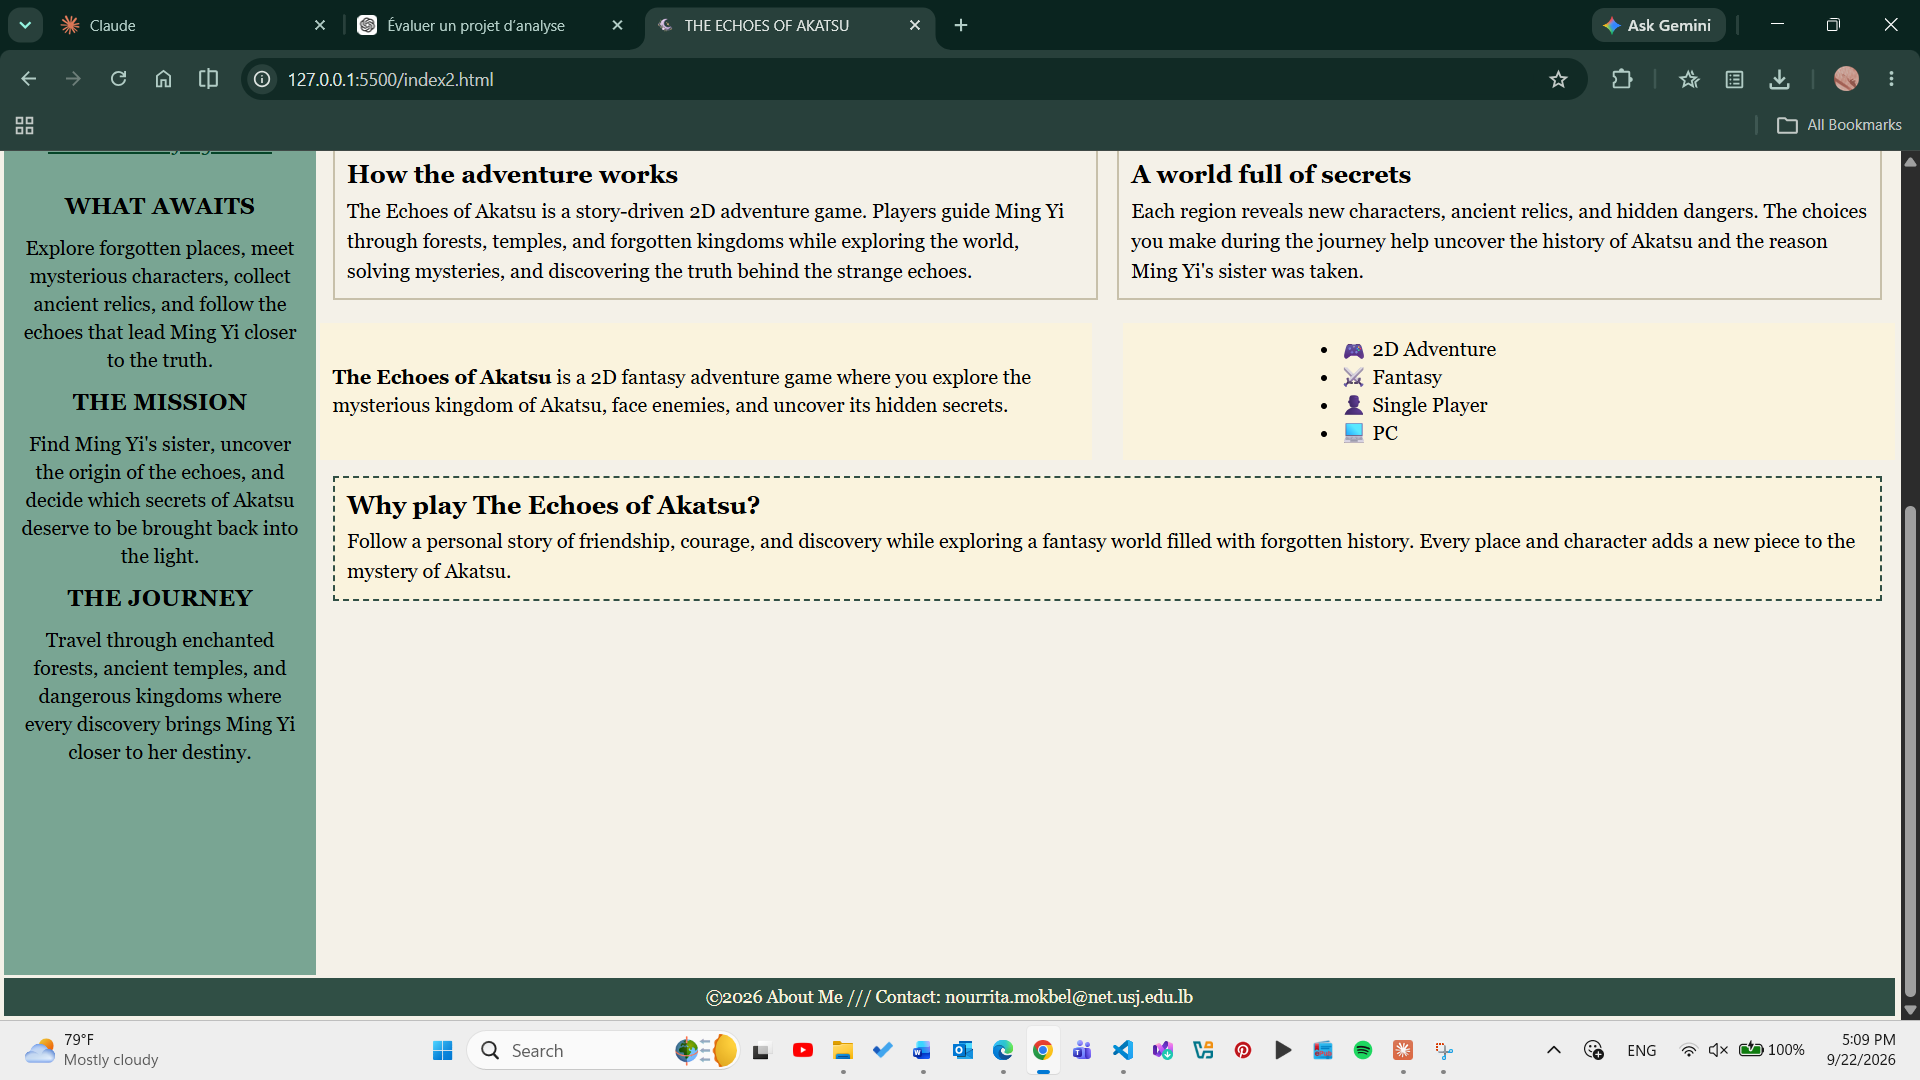
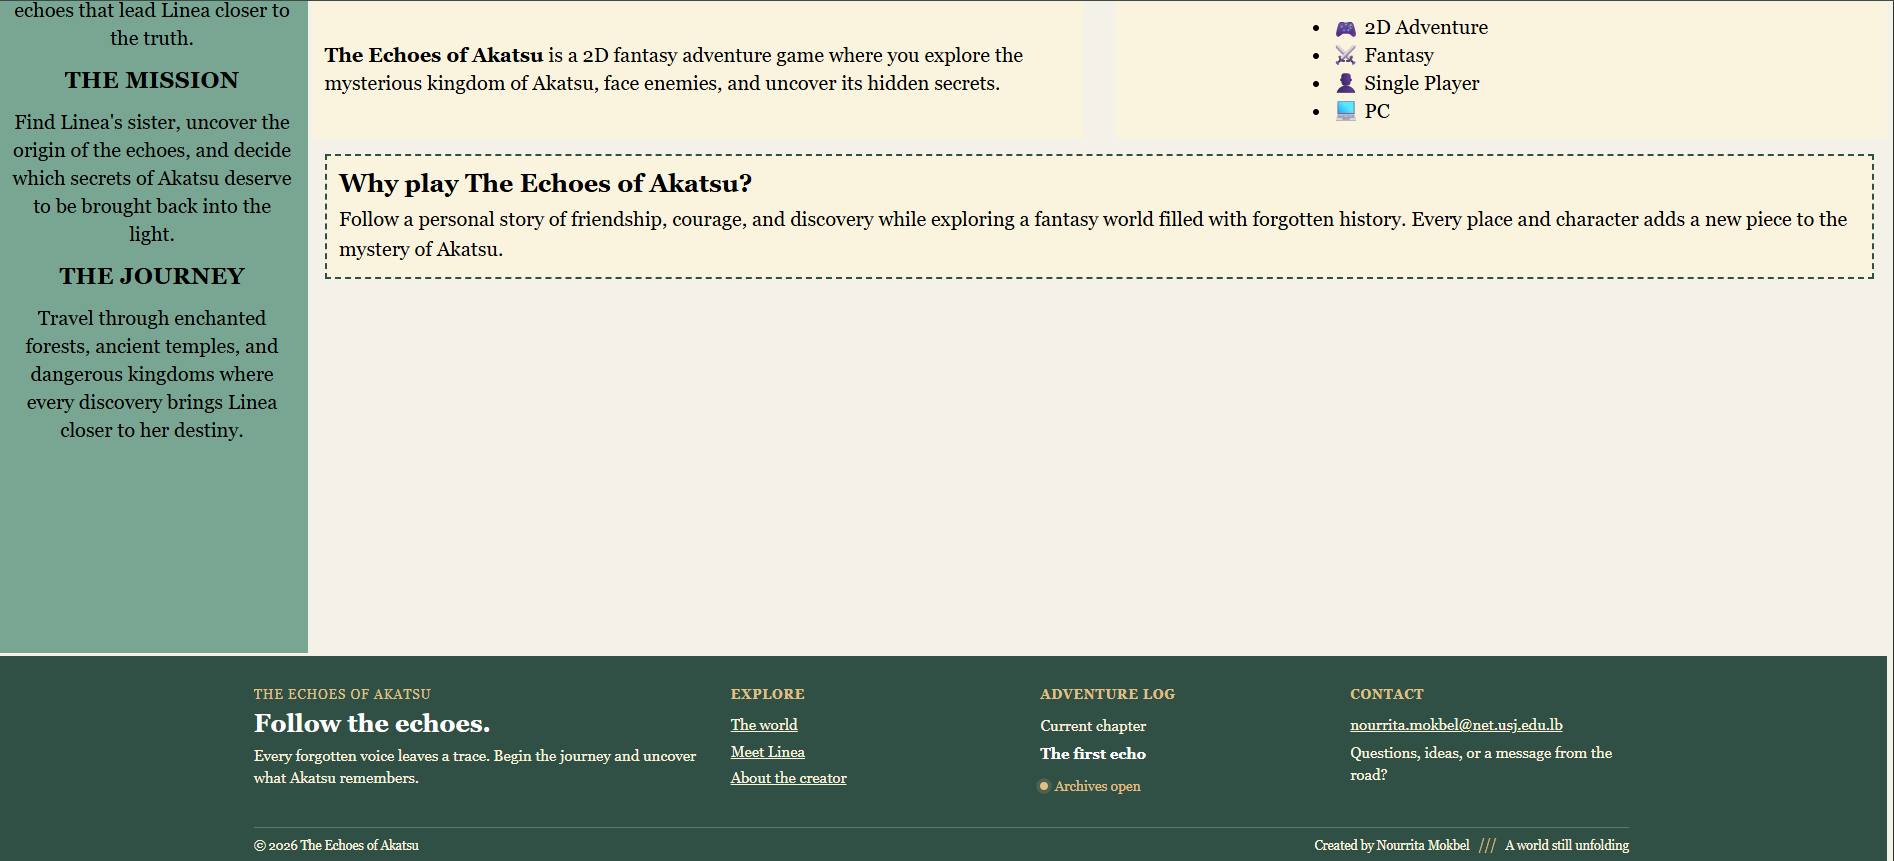
add a better footer section

diff --git a/css/styles.css b/css/styles.css
@@ -318,19 +318,118 @@ body {
     overflow-wrap: break-word; 
 } 
    
-.foot {   
-    background-color: var(--nav-color);   
-    color: var(--hover-color);   
-}  /* separate the styling of the footer for the paragraph to be clearer */   
-   
-.foot p {   
-    margin: 0;   
-    padding: var(--space-5);   
-    color: var(--hover-color);   
-    font-size: 0.875rem;   
-    text-align: center;   
-    overflow-wrap: break-word;   
-}   
+.foot {
+    grid-area: foot;
+    background-color: var(--nav-color);
+    color: var(--hover-color);
+    padding: var(--space-12) var(--space-7) var(--space-6);
+    min-width: 0;
+}
+
+.foot-main {
+    display: grid;
+    grid-template-columns: 1fr;
+    gap: var(--space-12);
+    max-width: 1100px;
+    margin: 0 auto;
+}
+
+.foot-intro,
+.foot-column {
+    min-width: 0;
+}
+
+.foot-kicker,
+.foot-column h3 {
+    margin: 0 0 var(--space-4);
+    color: var(--link-hover-color);
+    font-size: 0.625rem;
+    letter-spacing: 1px;
+    text-transform: uppercase;
+}
+
+.foot-intro h2 {
+    margin: 0 0 var(--space-4);
+    color: var(--white-color);
+    font-size: 1.25rem;
+    overflow-wrap: break-word;
+}
+
+.foot-intro > p:last-child,
+.foot-column p {
+    margin: 0;
+    color: var(--hover-color);
+    font-size: 0.75rem;
+    line-height: 1.5;
+    overflow-wrap: break-word;
+}
+
+.foot-column {
+    display: flex;
+    flex-direction: column;
+    align-items: flex-start;
+    gap: var(--space-3);
+}
+
+.foot-column a {
+    color: var(--hover-color);
+    font-size: 0.75rem;
+    line-height: 1.35;
+    overflow-wrap: anywhere;
+    transition: color 180ms ease;
+}
+
+.foot-column a:hover {
+    color: var(--link-hover-color);
+}
+
+.foot-column strong {
+    color: var(--white-color);
+    font-size: 0.75rem;
+    line-height: 1.35;
+    overflow-wrap: break-word;
+}
+
+.foot-status {
+    display: flex;
+    align-items: center;
+    gap: var(--space-3);
+    margin-top: var(--space-2) !important;
+    color: var(--link-hover-color) !important;
+    font-size: 0.6875rem !important;
+}
+
+.foot-status span {
+    width: 0.4rem;
+    height: 0.4rem;
+    border-radius: 50%;
+    background-color: var(--link-hover-color);
+    box-shadow: 0 0 0 3px rgba(225, 192, 132, 0.16);
+}
+
+.foot-bottom {
+    display: flex;
+    flex-direction: column;
+    justify-content: space-between;
+    gap: var(--space-6);
+    max-width: 1100px;
+    margin: var(--space-12) auto 0;
+    padding-top: var(--space-6);
+    border-top: 1px solid rgba(250, 243, 221, 0.25);
+}
+
+.foot-bottom p {
+    margin: 0;
+    color: var(--hover-color);
+    font-size: 0.625rem;
+    line-height: 1.4;
+    overflow-wrap: break-word;
+}
+
+.foot-bottom span {
+    margin: 0 var(--space-3);
+    color: var(--link-hover-color);
+}
     
 /* since we decide to do the webpage mobile first so in order to fit everything on a smaller screen we put grid and use template-area to make everything look better as a grid of 1 column and multilple row for a mobile or 2 column and multiple row for a larger screen */ 
 .grid { 
@@ -839,6 +938,14 @@ body > .grid {
 /* == MEDIA QUERY : DESKTOP / LARGE SCREENS == */   
    
 @media (min-width: 768px) {  /* because we decide to do mobile first so we have now to ajust for the desktop/ laptop */    
+    .foot-main {
+        grid-template-columns: minmax(0, 1.6fr) repeat(3, minmax(0, 1fr));
+    }
+
+    .foot-bottom {
+        flex-direction: row;
+        align-items: center;
+    }
     
     .header {  
         padding: var(--space-7);  

diff --git a/About.html b/About.html
@@ -287,12 +287,38 @@
         <!-- ================= FOOTER ================= -->
 
         <footer class="foot">
+            <div class="foot-main">
+                <div class="foot-intro">
+                    <p class="foot-kicker">THE ECHOES OF AKATSU</p>
+                    <h2>Follow the echoes.</h2>
+                    <p>Every forgotten voice leaves a trace. Begin the journey and uncover what Akatsu remembers.</p>
+                </div>
 
-            <p>
-                ©2026 About Me /// Contact: nourrita.mokbel@net.usj.edu.lb
-            </p>
+                <div class="foot-column">
+                    <h3>Explore</h3>
+                    <a href="index2.html">The world</a>
+                    <a href="character.html">Meet Linea</a>
+                    <a href="About.html">About the creator</a>
+                </div>
 
-        </footer>    
+                <div class="foot-column">
+                    <h3>Creator log</h3>
+                    <p>Current focus</p>
+                    <strong>Building Akatsu</strong>
+                    <p class="foot-status"><span></span> Story in progress</p>
+                </div>
+
+                <div class="foot-column foot-contact">
+                    <h3>Contact</h3>
+                    <a href="mailto:nourrita.mokbel@net.usj.edu.lb">nourrita.mokbel@net.usj.edu.lb</a>
+                    <p>Questions, ideas, or a message from the road?</p>
+                </div>
+            </div>
+            <div class="foot-bottom">
+                <p>© 2026 The Echoes of Akatsu</p>
+                <p>Created by Nourrita Mokbel <span aria-hidden="true">///</span> A world still unfolding</p>
+            </div>
+        </footer>
 
     </div>
 

diff --git a/character.html b/character.html
@@ -286,9 +286,37 @@
             </section>
         </section>
         <footer class="foot">
-            <p>
-                ©2026 About Me /// Contact: nourrita.mokbel@net.usj.edu.lb
-            </p>
-         </footer> 
+            <div class="foot-main">
+                <div class="foot-intro">
+                    <p class="foot-kicker">THE ECHOES OF AKATSU</p>
+                    <h2>Follow the echoes.</h2>
+                    <p>Every forgotten voice leaves a trace. Begin the journey and uncover what Akatsu remembers.</p>
+                </div>
+
+                <div class="foot-column">
+                    <h3>Explore</h3>
+                    <a href="index2.html">The world</a>
+                    <a href="character.html">Meet Linea</a>
+                    <a href="About.html">About the creator</a>
+                </div>
+
+                <div class="foot-column">
+                    <h3>Character log</h3>
+                    <p>Current companion</p>
+                    <strong>Linea, the herbalist</strong>
+                    <p class="foot-status"><span></span> Quest active</p>
+                </div>
+
+                <div class="foot-column foot-contact">
+                    <h3>Contact</h3>
+                    <a href="mailto:nourrita.mokbel@net.usj.edu.lb">nourrita.mokbel@net.usj.edu.lb</a>
+                    <p>Questions, ideas, or a message from the road?</p>
+                </div>
+            </div>
+            <div class="foot-bottom">
+                <p>© 2026 The Echoes of Akatsu</p>
+                <p>Created by Nourrita Mokbel <span aria-hidden="true">///</span> A world still unfolding</p>
+            </div>
+        </footer>
     </body>  
 </html>

diff --git a/index2.html b/index2.html
@@ -143,7 +143,37 @@
     </section>
 
         <footer class="foot">
-            <p>©2026 About Me /// Contact: nourrita.mokbel@net.usj.edu.lb</p>
+            <div class="foot-main">
+                <div class="foot-intro">
+                    <p class="foot-kicker">THE ECHOES OF AKATSU</p>
+                    <h2>Follow the echoes.</h2>
+                    <p>Every forgotten voice leaves a trace. Begin the journey and uncover what Akatsu remembers.</p>
+                </div>
+
+                <div class="foot-column">
+                    <h3>Explore</h3>
+                    <a href="index2.html">The world</a>
+                    <a href="character.html">Meet Linea</a>
+                    <a href="About.html">About the creator</a>
+                </div>
+
+                <div class="foot-column">
+                    <h3>Adventure log</h3>
+                    <p>Current chapter</p>
+                    <strong>The first echo</strong>
+                    <p class="foot-status"><span></span> Archives open</p>
+                </div>
+
+                <div class="foot-column foot-contact">
+                    <h3>Contact</h3>
+                    <a href="mailto:nourrita.mokbel@net.usj.edu.lb">nourrita.mokbel@net.usj.edu.lb</a>
+                    <p>Questions, ideas, or a message from the road?</p>
+                </div>
+            </div>
+            <div class="foot-bottom">
+                <p>© 2026 The Echoes of Akatsu</p>
+                <p>Created by Nourrita Mokbel <span aria-hidden="true">///</span> A world still unfolding</p>
+            </div>
         </footer>
         </div>
     </body>
